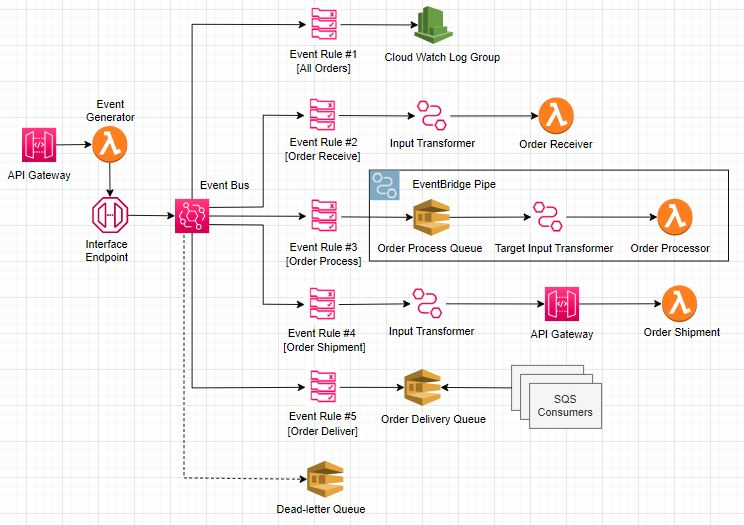
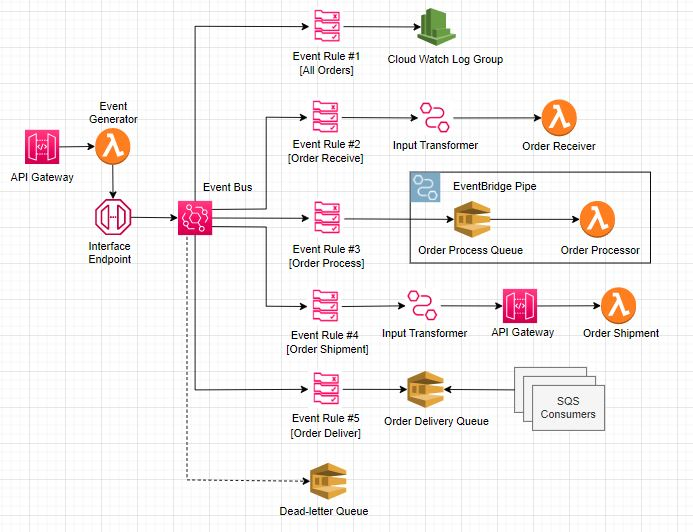
testing and fixes

diff --git a/infra/services/event_rule_order_processor.py b/infra/services/event_rule_order_processor.py
@@ -1,7 +1,7 @@
 import json
 
 from aws_cdk import Duration
-from aws_cdk import aws_events, aws_pipes
+from aws_cdk import aws_events, aws_pipes, aws_sqs
 from aws_cdk import aws_events_targets as targets
 from aws_cdk import aws_iam, aws_lambda
 from aws_cdk import aws_sqs as sqs
@@ -48,16 +48,6 @@ def create_event_rule_order_processor(
         )
     )
 
-    # Input Transformer
-    order_processor_input_transformer = {
-        "event_type": aws_events.EventField.from_path("$.detail-type"),
-        "order_id": aws_events.EventField.from_path( "$.detail.order_id"),
-        "payload": {
-            "order_id": aws_events.EventField.from_path("$.detail.order_id"),
-            "order_date": aws_events.EventField.from_path("$.detail.order_date"),
-        },
-    }
-
     event_pipe_role = aws_iam.Role(
             scope,
             id=f"{deployment_name}-event-pipe-role",
@@ -97,8 +87,5 @@ def create_event_rule_order_processor(
             sqs_queue_parameters=aws_pipes.CfnPipe.PipeSourceSqsQueueParametersProperty(
                 batch_size=1
             )
-        ),
-        target_parameters=aws_pipes.CfnPipe.PipeTargetParametersProperty(
-            input_template=json.dumps(order_processor_input_transformer)
         ),
     )

diff --git a/functions/order_processor/lambda_function.py b/functions/order_processor/lambda_function.py
@@ -8,13 +8,12 @@ def lambda_handler(event, context):
     timestamp = get_current_timestamp_string()
     print(f"Order Processor Function is triggered at {timestamp}.")
     
-    event_type = event.get("event_type")
-    order_id = event.get("order_id")
-    payload = event.get("payload")
+    request_body = json.loads(event[0].get("body"))
+    event_type = request_body.get("detail-type")
+    payload = request_body.get("detail")
 
     print(f"Event Type: {event_type}")
 
-    print(f"Order ID: {order_id}")
     print(f"Order Details:\n {payload}")
 
     print("Order Processor Function is executed successfully.")
